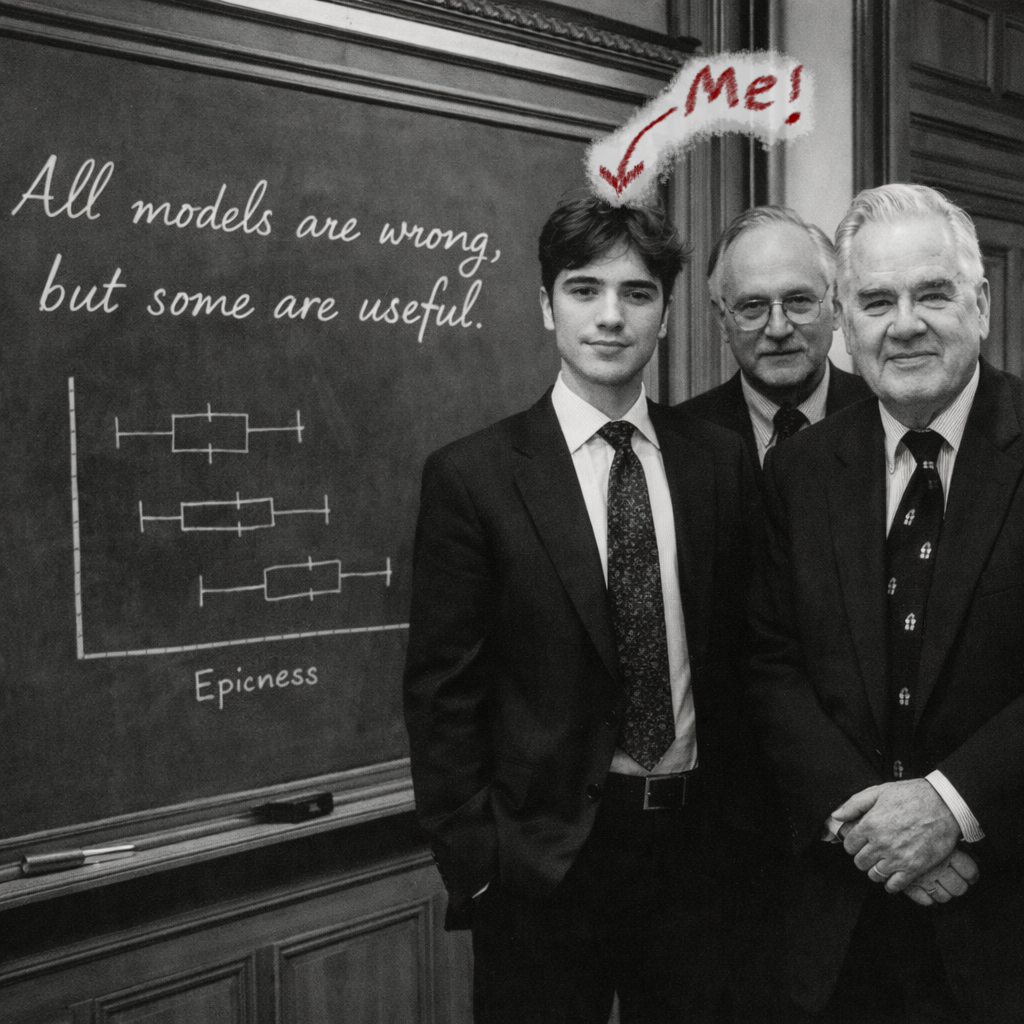
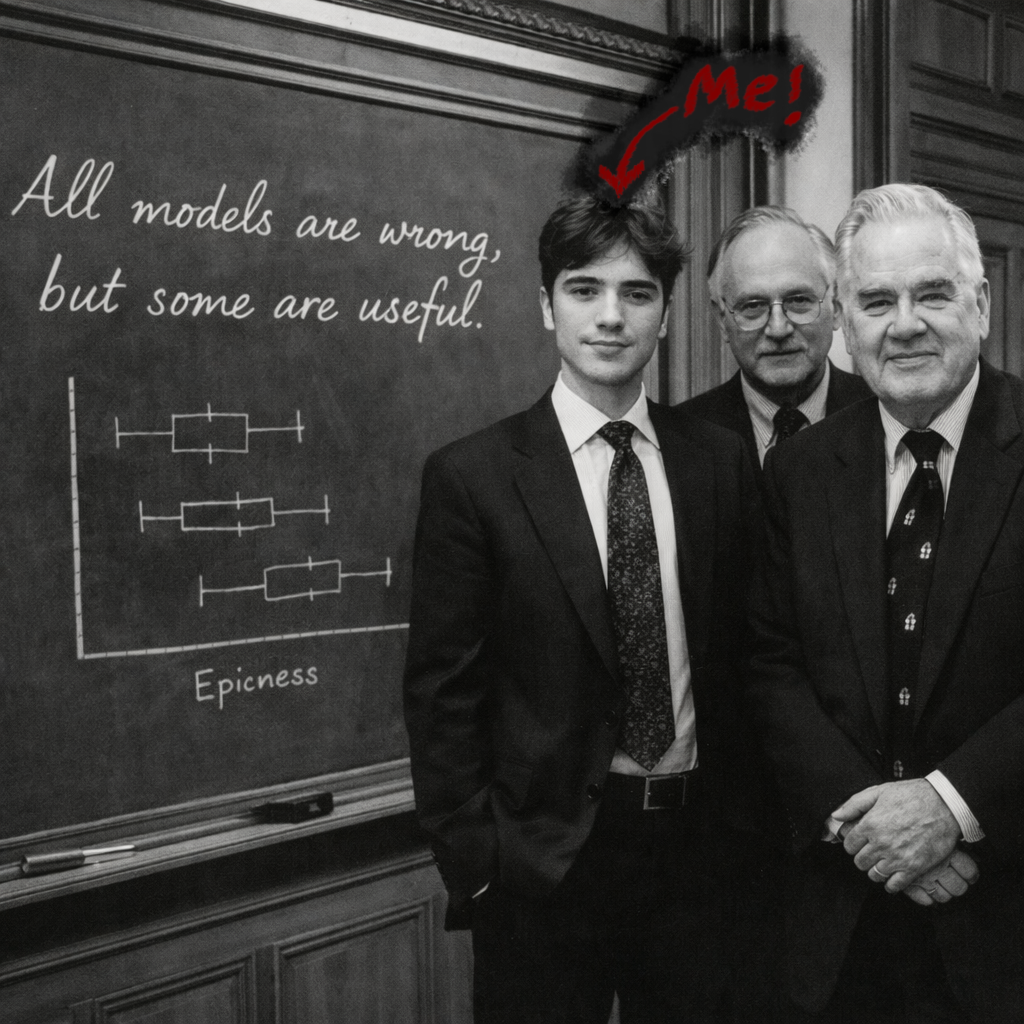
feat(home): interactive Box/Tukey hero with hidden bio articles
feat(home): interactive Box/Tukey hero with hidden bio articles

Add alpha-sampled glow overlays that link to unpublished George Box and
John Tukey notes, and drop Articles CTAs
until there is real writing to show.

Changed region(s): [[0.5312, 0.0312, 0.8125, 0.2188]]

diff --git a/src/components/HeroPortrait.tsx b/src/components/HeroPortrait.tsx
@@ -1,0 +1,183 @@
+"use client";
+
+// src/components/HeroPortrait.tsx
+import Image from "next/image";
+import { useRouter } from "next/navigation";
+import { useEffect, useRef, useState } from "react";
+
+type Person = "george" | "john";
+
+const MASKS: Record<Person, { src: string; href: string; label: string }> = {
+  george: {
+    src: "/images/home/george-box-glow.png",
+    href: "/articles/george-box",
+    label: "About George Box",
+  },
+  john: {
+    src: "/images/home/john-tukey-glow.png",
+    href: "/articles/john-tukey",
+    label: "About John Tukey",
+  },
+};
+
+/** Ignore soft fringe pixels; solid portrait/glow regions are well above this. */
+const ALPHA_THRESHOLD = 48;
+
+const IMAGE_SIZE = 1024;
+
+/**
+ * Map a pointer position in a container to image pixel coords under CSS object-cover
+ * (centered), matching the default Next/Image + object-cover behaviour.
+ */
+function pointerToCoverCoords(
+  clientX: number,
+  clientY: number,
+  rect: DOMRect
+): { x: number; y: number } | null {
+  if (rect.width <= 0 || rect.height <= 0) return null;
+
+  const scale = Math.max(rect.width / IMAGE_SIZE, rect.height / IMAGE_SIZE);
+  const displayW = IMAGE_SIZE * scale;
+  const displayH = IMAGE_SIZE * scale;
+  const offsetX = (rect.width - displayW) / 2;
+  const offsetY = (rect.height - displayH) / 2;
+
+  const x = (clientX - rect.left - offsetX) / scale;
+  const y = (clientY - rect.top - offsetY) / scale;
+
+  if (x < 0 || y < 0 || x >= IMAGE_SIZE || y >= IMAGE_SIZE) return null;
+  return { x, y };
+}
+
+async function loadAlphaMap(src: string): Promise<Uint8ClampedArray> {
+  const img = await new Promise<HTMLImageElement>((resolve, reject) => {
+    const el = new window.Image();
+    el.onload = () => resolve(el);
+    el.onerror = () => reject(new Error(`Failed to load ${src}`));
+    el.src = src;
+  });
+
+  const canvas = document.createElement("canvas");
+  canvas.width = IMAGE_SIZE;
+  canvas.height = IMAGE_SIZE;
+  const ctx = canvas.getContext("2d", { willReadFrequently: true });
+  if (!ctx) throw new Error("Canvas unsupported");
+
+  ctx.drawImage(img, 0, 0, IMAGE_SIZE, IMAGE_SIZE);
+  return ctx.getImageData(0, 0, IMAGE_SIZE, IMAGE_SIZE).data;
+}
+
+function sampleAlpha(data: Uint8ClampedArray, x: number, y: number): number {
+  const ix = Math.min(IMAGE_SIZE - 1, Math.max(0, Math.floor(x)));
+  const iy = Math.min(IMAGE_SIZE - 1, Math.max(0, Math.floor(y)));
+  return data[(iy * IMAGE_SIZE + ix) * 4 + 3] ?? 0;
+}
+
+const overlayClassName =
+  "absolute inset-0 h-full w-full object-cover object-center opacity-0 transition-opacity duration-500 ease-out pointer-events-none";
+
+const HeroPortrait = () => {
+  const router = useRouter();
+  const frameRef = useRef<HTMLDivElement>(null);
+  const alphaRef = useRef<Partial<Record<Person, Uint8ClampedArray>>>({});
+  const [active, setActive] = useState<Person | null>(null);
+  const [ready, setReady] = useState(false);
+
+  useEffect(() => {
+    let cancelled = false;
+
+    Promise.all(
+      (Object.keys(MASKS) as Person[]).map(async (person) => {
+        const data = await loadAlphaMap(MASKS[person].src);
+        return [person, data] as const;
+      })
+    )
+      .then((entries) => {
+        if (cancelled) return;
+        alphaRef.current = Object.fromEntries(entries);
+        setReady(true);
+      })
+      .catch((err) => {
+        console.error(err);
+      });
+
+    return () => {
+      cancelled = true;
+    };
+  }, []);
+
+  const personAtPointer = (clientX: number, clientY: number): Person | null => {
+    const frame = frameRef.current;
+    const alphas = alphaRef.current;
+    if (!frame || !alphas.george || !alphas.john) return null;
+
+    const coords = pointerToCoverCoords(clientX, clientY, frame.getBoundingClientRect());
+    if (!coords) return null;
+
+    const george = sampleAlpha(alphas.george, coords.x, coords.y);
+    const john = sampleAlpha(alphas.john, coords.x, coords.y);
+
+    const georgeHit = george >= ALPHA_THRESHOLD;
+    const johnHit = john >= ALPHA_THRESHOLD;
+    if (!georgeHit && !johnHit) return null;
+    if (georgeHit && !johnHit) return "george";
+    if (johnHit && !georgeHit) return "john";
+    return george >= john ? "george" : "john";
+  };
+
+  return (
+    <div
+      ref={frameRef}
+      className={`relative hidden min-h-screen bg-background md:block ${
+        active ? "cursor-pointer" : "cursor-default"
+      }`}
+      onPointerMove={(e) => {
+        if (!ready) return;
+        const next = personAtPointer(e.clientX, e.clientY);
+        setActive((prev) => (prev === next ? prev : next));
+      }}
+      onPointerLeave={() => setActive(null)}
+      onClick={() => {
+        if (!active) return;
+        router.push(MASKS[active].href);
+      }}
+      role="group"
+      aria-label="Interactive portrait of George Box and John Tukey"
+    >
+      <Image
+        src="/images/home/home_image.webp"
+        alt="Jamie with George Box and John Tukey"
+        fill
+        className="object-cover object-center"
+        priority
+        sizes="50vw"
+      />
+
+      {/* Plain img keeps pixel alignment identical to the alpha maps we sample */}
+      {/* eslint-disable-next-line @next/next/no-img-element */}
+      <img
+        src={MASKS.george.src}
+        alt=""
+        aria-hidden
+        className={`${overlayClassName} ${active === "george" ? "opacity-100" : ""}`}
+        draggable={false}
+      />
+      {/* eslint-disable-next-line @next/next/no-img-element */}
+      <img
+        src={MASKS.john.src}
+        alt=""
+        aria-hidden
+        className={`${overlayClassName} ${active === "john" ? "opacity-100" : ""}`}
+        draggable={false}
+      />
+
+      {/* Keyboard / screen-reader paths (mouse uses alpha hit-testing above) */}
+      <nav className="sr-only" aria-label="About the statisticians in the portrait">
+        <a href={MASKS.george.href}>{MASKS.george.label}</a>
+        <a href={MASKS.john.href}>{MASKS.john.label}</a>
+      </nav>
+    </div>
+  );
+};
+
+export default HeroPortrait;

diff --git a/src/app/page.tsx b/src/app/page.tsx
@@ -1,9 +1,9 @@
 // src/app/page.tsx
 import Link from 'next/link';
-import Image from 'next/image';
 import GitHubIcon from '@/components/icons/GitHubIcon';
 import LinkedInIcon from '@/components/icons/LinkedInIcon';
 import EmailIcon from '@/components/icons/EmailIcon';
+import HeroPortrait from '@/components/HeroPortrait';
 
 
 const HomePage = () => {
@@ -12,15 +12,7 @@ const HomePage = () => {
 
       {/* Hero Section */}
       <section id="hero" className="grid grid-cols-1 md:grid-cols-2 min-h-screen">
-        <div className="bg-background hidden md:block relative">
-          <Image
-            src="/images/home/home_image.webp"
-            alt="Hero Background"
-            fill
-            className="object-cover"
-            priority
-          />
-        </div>
+        <HeroPortrait />
 
         <div className="flex flex-col justify-center items-center md:items-start text-center md:text-left p-8">
           <h1 className="font-heading text-4xl sm:text-5xl lg:text-6xl font-bold mb-4">
@@ -51,7 +43,7 @@ const HomePage = () => {
         </a>
 
         <div className="container mx-auto max-w-4xl">
-          <div className="flex flex-col md:flex-row md:items-start md:gap-12">
+          <div className="flex flex-col md:flex-row md:items-center md:gap-12">
             <div className="md:flex-1 md:min-w-0 mb-8 md:mb-0">
               <h2 className="font-heading text-3xl font-bold mb-6">About Me</h2>
               <p className="text-foreground2 mb-8 text-lg">
@@ -85,12 +77,6 @@ const HomePage = () => {
                 className="block w-full bg-background hover:brightness-125 text-foreground font-bold py-3 px-6 rounded-md transition-colors duration-200 text-center"
               >
                 My Projects
-              </Link>
-              <Link
-                href="/articles"
-                className="block w-full bg-background hover:brightness-125 text-foreground font-bold py-3 px-6 rounded-md transition-colors duration-200 text-center"
-              >
-                My Articles
               </Link>
             </div>
           </div>

diff --git a/src/app/articles/[slug]/page.tsx b/src/app/articles/[slug]/page.tsx
@@ -1,5 +1,5 @@
 import type { Metadata } from "next";
-import { getSortedContentData, getContentBySlug, ArticleMetadata } from '@/lib/content';
+import { getAllContentSlugs, getContentBySlug, ArticleMetadata } from '@/lib/content';
 import { MDXRemote } from 'next-mdx-remote/rsc';
 import YouTubeEmbed from '@/components/YouTubeEmbed';
 import TagList from "@/components/TagList";
@@ -8,10 +8,9 @@ import FigureImage from '@/components/FigureImage';
 import MDXLink from '@/components/MDXLink';
 
 export async function generateStaticParams() {
-  const articles = await getSortedContentData<ArticleMetadata>('articles');
-  return articles.map((article) => ({
-    slug: article.slug,
-  }));
+  // Include unpublished articles so direct/hero links still pre-render.
+  const slugs = await getAllContentSlugs("articles");
+  return slugs.map((slug) => ({ slug }));
 }
 
 export async function generateMetadata({

diff --git a/src/lib/content.ts b/src/lib/content.ts
@@ -71,6 +71,18 @@ export async function getSortedContentData<
 }
 
 /**
+ * All content slugs on disk, including `published: false`.
+ * Useful for static params when hidden pages are still linked directly.
+ */
+export async function getAllContentSlugs(type: Kind): Promise<string[]> {
+  const files = await fs.readdir(dirFor(type));
+  return files
+    .filter((file) => file.endsWith(".mdx"))
+    .map((file) => file.slice(0, -4))
+    .filter((slug) => /^[a-z0-9-]+$/.test(slug));
+}
+
+/**
  * Load a single entry by slug. Does not check `published`,
  * so hidden items remain accessible via direct URL.
  * Returns null only if the file does not exist.
